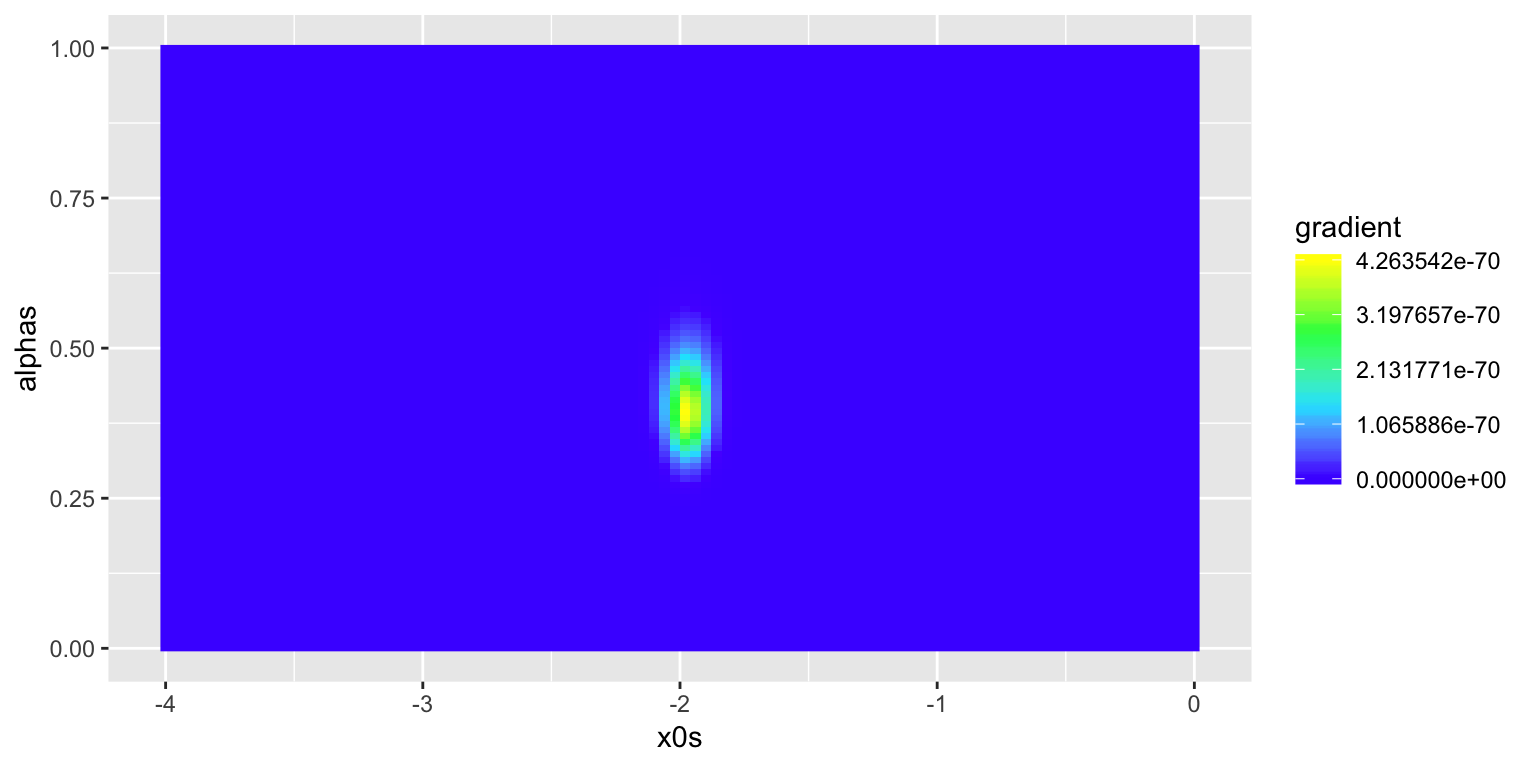
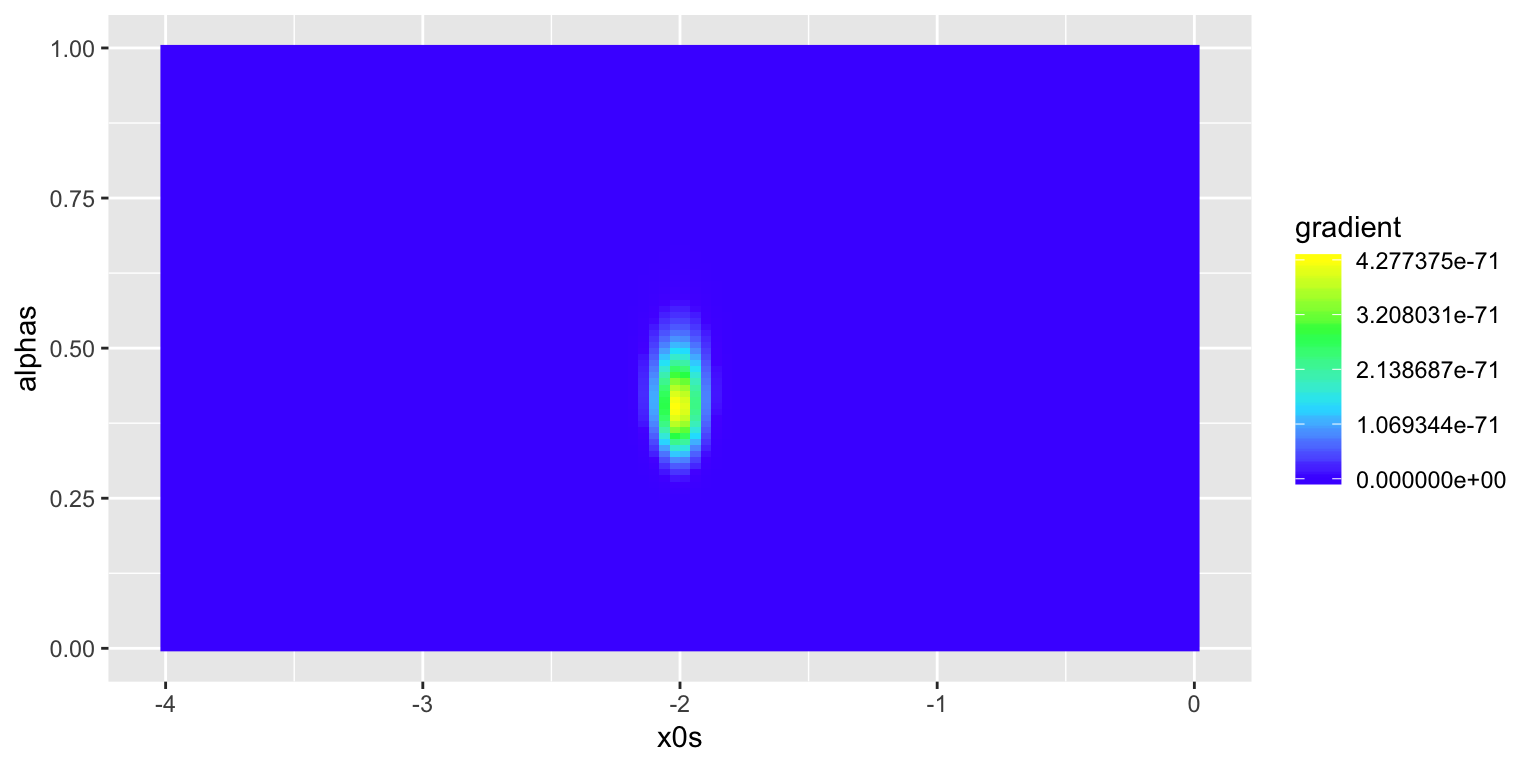
prez

diff --git a/tp4.html b/tp4.html
@@ -410,7 +410,7 @@ for (i in 1:100){
   }
 }
 print(paste(&quot;nombre de rejet du test = &quot;,acc,sep = &quot;&quot;))</code></pre>
-<pre><code>## [1] &quot;nombre de rejet du test = 2&quot;</code></pre>
+<pre><code>## [1] &quot;nombre de rejet du test = 8&quot;</code></pre>
 <p>On remarque que le nombre de rejet varie accès peu et qu’il vaut généralement 4.</p>
 </div>
 <div id="b-1" class="section level3">
@@ -436,9 +436,9 @@ for (i in alpha_list){
     }
     print(paste(&quot;alpha = &quot;,i,&quot; nombre de rejet du test = &quot;,acc,sep = &quot;&quot;))
 }</code></pre>
-<pre><code>## [1] &quot;alpha = 0.2 nombre de rejet du test = 22&quot;
+<pre><code>## [1] &quot;alpha = 0.2 nombre de rejet du test = 18&quot;
 ## [1] &quot;alpha = 0.1 nombre de rejet du test = 10&quot;
-## [1] &quot;alpha = 0.05 nombre de rejet du test = 5&quot;
+## [1] &quot;alpha = 0.05 nombre de rejet du test = 4&quot;
 ## [1] &quot;alpha = 0.01 nombre de rejet du test = 1&quot;</code></pre>
 </div>
 </div>
@@ -454,10 +454,10 @@ for (i in alpha_list){
     }
     print(paste(&quot;alpha = &quot;,i,&quot; nombre de rejet du test = &quot;,acc,sep = &quot;&quot;))
 }</code></pre>
-<pre><code>## [1] &quot;alpha = 0.2 nombre de rejet du test = 76&quot;
-## [1] &quot;alpha = 0.1 nombre de rejet du test = 64&quot;
-## [1] &quot;alpha = 0.05 nombre de rejet du test = 35&quot;
-## [1] &quot;alpha = 0.01 nombre de rejet du test = 18&quot;</code></pre>
+<pre><code>## [1] &quot;alpha = 0.2 nombre de rejet du test = 75&quot;
+## [1] &quot;alpha = 0.1 nombre de rejet du test = 58&quot;
+## [1] &quot;alpha = 0.05 nombre de rejet du test = 52&quot;
+## [1] &quot;alpha = 0.01 nombre de rejet du test = 22&quot;</code></pre>
 <p>On remarque dans un premier que logiquement que rejeté beaucoup plus que précédemment. D’autre part, <span class="math inline">\(\alpha\)</span> influe encore car plus <span class="math inline">\(\alpha\)</span> est grand plus on se trompe sur le testde décision.</p>
 </div>
 <div id="b-2" class="section level3">
@@ -478,14 +478,14 @@ for(i in mu_liste){
     test &lt;- c(test,acc)
     print(paste(&quot;alpha = &quot;,i,&quot; nombre de rejet du test = &quot;,acc,sep = &quot;&quot;))
 }</code></pre>
-<pre><code>## [1] &quot;alpha = 1.2 nombre de rejet du test = 55&quot;
-## [1] &quot;alpha = 1.3 nombre de rejet du test = 47&quot;
-## [1] &quot;alpha = 1.4 nombre de rejet du test = 45&quot;
-## [1] &quot;alpha = 1.5 nombre de rejet du test = 38&quot;
-## [1] &quot;alpha = 1.6 nombre de rejet du test = 38&quot;
-## [1] &quot;alpha = 1.7 nombre de rejet du test = 51&quot;
-## [1] &quot;alpha = 1.8 nombre de rejet du test = 45&quot;
-## [1] &quot;alpha = 1.9 nombre de rejet du test = 46&quot;
+<pre><code>## [1] &quot;alpha = 1.2 nombre de rejet du test = 45&quot;
+## [1] &quot;alpha = 1.3 nombre de rejet du test = 45&quot;
+## [1] &quot;alpha = 1.4 nombre de rejet du test = 52&quot;
+## [1] &quot;alpha = 1.5 nombre de rejet du test = 42&quot;
+## [1] &quot;alpha = 1.6 nombre de rejet du test = 37&quot;
+## [1] &quot;alpha = 1.7 nombre de rejet du test = 52&quot;
+## [1] &quot;alpha = 1.8 nombre de rejet du test = 49&quot;
+## [1] &quot;alpha = 1.9 nombre de rejet du test = 43&quot;
 ## [1] &quot;alpha = 2 nombre de rejet du test = 39&quot;</code></pre>
 <pre class="r"><code>plot(mu_liste,100 - test,xlab = &quot;Valeurs prises par mu1&quot;,ylab = &quot;nombre de rejet obtenu&quot;,main = &quot;Pourcentage de bonne décision&quot;,type = &quot;l&quot;)</code></pre>
 <p><img src="tp4_files/figure-html/unnamed-chunk-6-1.png" width="672" /></p>
@@ -500,13 +500,13 @@ for(i in mu_liste){
 ##  One Sample t-test
 ## 
 ## data:  rnorm(20, 1, sqrt(2))
-## t = 0.53775, df = 19, p-value = 0.597
+## t = 1.226, df = 19, p-value = 0.2352
 ## alternative hypothesis: true mean is not equal to 1
 ## 95 percent confidence interval:
-##  0.3913571 2.0295350
+##  0.7177838 2.0803031
 ## sample estimates:
 ## mean of x 
-##  1.210446</code></pre>
+##  1.399043</code></pre>
 <p><span class="math inline">\(t\)</span> est la valeur correspondant à la statistique donnée par Neyman-Pearson. <span class="math inline">\(df\)</span> est le degré de liberté de la loi de Student.</p>
 </div>
 <div id="b-3" class="section level3">
@@ -523,49 +523,49 @@ for(i in mu_liste){
 ##  One Sample t-test
 ## 
 ## data:  rnorm(20, 1, sqrt(2))
-## t = 0.015383, df = 19, p-value = 0.9879
+## t = -0.010393, df = 19, p-value = 0.9918
 ## alternative hypothesis: true mean is not equal to 1
 ## 80 percent confidence interval:
-##  0.609560 1.399593
+##  0.4512151 1.5402605
 ## sample estimates:
 ## mean of x 
-##  1.004577 
+## 0.9957378 
 ## 
 ## 
 ##  One Sample t-test
 ## 
 ## data:  rnorm(20, 1, sqrt(2))
-## t = -1.2217, df = 19, p-value = 0.2368
+## t = 0.30327, df = 19, p-value = 0.765
 ## alternative hypothesis: true mean is not equal to 1
 ## 90 percent confidence interval:
-##  0.0259445 1.1675204
+##  0.5535873 1.6363125
 ## sample estimates:
 ## mean of x 
-## 0.5967325 
+##   1.09495 
 ## 
 ## 
 ##  One Sample t-test
 ## 
 ## data:  rnorm(20, 1, sqrt(2))
-## t = -0.13482, df = 19, p-value = 0.8942
+## t = 1.369, df = 19, p-value = 0.187
 ## alternative hypothesis: true mean is not equal to 1
 ## 95 percent confidence interval:
-##  0.347396 1.573620
+##  0.7596691 2.1490904
 ## sample estimates:
 ## mean of x 
-## 0.9605082 
+##   1.45438 
 ## 
 ## 
 ##  One Sample t-test
 ## 
 ## data:  rnorm(20, 1, sqrt(2))
-## t = 0.65707, df = 19, p-value = 0.519
+## t = 0.43441, df = 19, p-value = 0.6689
 ## alternative hypothesis: true mean is not equal to 1
 ## 99 percent confidence interval:
-##  0.2186087 2.2473266
+##  0.3004585 1.9500152
 ## sample estimates:
 ## mean of x 
-##  1.232968</code></pre>
+##  1.125237</code></pre>
 </div>
 <div id="d" class="section level3">
 <h3>(d)</h3>

diff --git a/tp3.html b/tp3.html
@@ -372,7 +372,7 @@ $(document).ready(function () {
 <h2>1.a Estimation de p</h2>
 <pre class="r"><code>X_N &lt;- rbinom(n=10,size=1,prob=0.7)
 X_N</code></pre>
-<pre><code>##  [1] 1 0 1 1 1 1 1 0 1 1</code></pre>
+<pre><code>##  [1] 1 1 0 0 0 1 0 1 0 0</code></pre>
 <p>Une estimation rapide de <span class="math inline">\(p\)</span> est de trouver le paramêtre qui maximise la vraisemblance.</p>
 </div>
 <div id="b" class="section level2">
@@ -389,10 +389,10 @@ plot(vect_vraisemblance)</code></pre>
 <pre class="r"><code>interval=c(0,1)
 optimize(function(vect_p) L_bern(X_N,vect_p),interval,lower=min(interval),upper=max(interval),maximum = TRUE)</code></pre>
 <pre><code>## $maximum
-## [1] 0.799982
+## [1] 0.399998
 ## 
 ## $objective
-## [1] 0.006710886</code></pre>
+## [1] 0.001194394</code></pre>
 <p>On trouve finalement une valeur pour <span class="math inline">\(p=0.7\)</span>.</p>
 </div>
 <div id="e" class="section level2">
@@ -412,10 +412,10 @@ for (i in 1:n) {
 plot(N, res,ylab=&quot;&quot;)
 title(main=&quot;Approximation de p en fonction de la taille de l&#39;échantillon&quot;,ylab = &quot;Valeur de p&quot;)
 mean(res) </code></pre>
-<pre><code>## [1] 0.821952</code></pre>
+<pre><code>## [1] 0.8193262</code></pre>
 <p><img src="tp3_files/figure-html/unnamed-chunk-5-1.png" width="50%" /></p>
 <p>On remarque que plus N est grand plus on se rapproche de la valeur attendue avec un meilleur écart. Pour combattre l’instabilité on passe à la log-vraisemblance : <span class="math display">\[\log(L_n(x))=\sum\limits_i \log(f(x_i;p))\]</span></p>
-<pre><code>## [1] 0.7018976</code></pre>
+<pre><code>## [1] 0.7003938</code></pre>
 <p><img src="tp3_files/figure-html/unnamed-chunk-6-1.png" width="50%" /></p>
 <p>On remarque que les points sont de moins en moins dispercé (la figure prend la forme d’un cône) plus on se rapproche d’un n grand.</p>
 </div>
@@ -441,12 +441,11 @@ optimize(function(vect_p) L_bern(data$x,vect_p),interval,lower=min(interval),upp
 <h2>2.a</h2>
 <pre class="r"><code>X_N &lt;- rnorm(n=30,mean=2,sd=1)
 X_N</code></pre>
-<pre><code>##  [1]  3.11137677  1.52993130  1.80088328  2.01816958  1.16166342
-##  [6]  2.31988038  2.88165628  1.68013146  1.62477079  1.71657744
-## [11]  1.71397864  0.98759206  3.18524558  3.57251633 -0.08039467
-## [16]  2.53625661  2.39934931  1.73313600  2.30341220  1.37711818
-## [21]  2.59818480  2.67950275  2.39125725  2.33829999  0.84180386
-## [26]  2.89748826  2.62155741  1.66880693  3.07184618  1.17307257</code></pre>
+<pre><code>##  [1]  1.9939936 -0.3425220  2.2739358  2.5847763  1.7053827  1.0744567
+##  [7]  1.5358342  2.9838698  1.1662237  1.1780105  2.4985431  2.6530751
+## [13]  0.8025991  1.4537363  2.1681741  2.0432473  1.3078019  2.8905969
+## [19]  2.7420681  3.1652165  1.3869109  0.4193042  1.8279638  2.0632320
+## [25]  1.2210212  1.5299707  1.4175924  3.1964891  2.0462393  2.1557095</code></pre>
 </div>
 <div id="b-1" class="section level2">
 <h2>2.b</h2>
@@ -461,10 +460,10 @@ plot(vect_vraisemblance)</code></pre>
 <pre class="r"><code>interval=c(0,4)
 optimize(function(vect_p) L_norm(X_N,vect_p,2),interval,lower=min(interval),upper=max(interval),maximum = TRUE)</code></pre>
 <pre><code>## $maximum
-## [1] 2.061844
+## [1] 1.838109
 ## 
 ## $objective
-## [1] 9.041266e-23</code></pre>
+## [1] 8.381337e-23</code></pre>
 <p>On trouve alors une valeur pour</p>
 </div>
 <div id="d" class="section level2">
@@ -487,7 +486,7 @@ for (i in 1:n) {
 plot(N, dmu,ylab=&quot;&quot;)
 title(main=&quot;Approximation de mu en fonction de la taille de l&#39;échantillon&quot;,ylab = &quot;Valeur de mu&quot;)
 mean(dmu)</code></pre>
-<pre><code>## [1] 3.524977</code></pre>
+<pre><code>## [1] 3.506394</code></pre>
 <p><img src="tp3_files/figure-html/unnamed-chunk-11-1.png" width="50%" /></p>
 <p>On remarque que comme dans le cas de l’exercice 1, il faut passer à la log-vraisemblance.</p>
 <pre class="r"><code>library(knitr)
@@ -508,7 +507,7 @@ for (i in 1:n) {
 plot(N, dmu,xlab=&quot;&quot;)
 title(main=&quot;Approximation de mu en fonction de la taille de l&#39;échantillon&quot;,ylab = &quot;Valeur de mu&quot;)
 mean(dmu)</code></pre>
-<pre><code>## [1] 2.003602</code></pre>
+<pre><code>## [1] 1.995559</code></pre>
 <p><img src="tp3_files/figure-html/unnamed-chunk-12-1.png" width="33%" /></p>
 <p>On remarque encore une fois l’apparition d’un cône pour n de plus en plus grand et une convergence du paramètre <span class="math inline">\(\mu\)</span> vers <span class="math inline">\(2\)</span> la valeur théorique.</p>
 </div>
@@ -581,7 +580,7 @@ c(&quot;x0&quot; = x0, &quot;alpha_max&quot; = alpha)</code></pre>
 <pre class="r"><code># valeurs des paramètres pour lesquels la vraisemblance est maximal:
 c(&quot;x0_max&quot; = x0s[m], &quot;alpha_max&quot; = alphas[m])</code></pre>
 <pre><code>##     x0_max  alpha_max 
-## -1.9797980  0.3939394</code></pre>
+## -2.0202020  0.4040404</code></pre>
 </div>
 
 

diff --git a/tp2.html b/tp2.html
@@ -442,7 +442,7 @@ moy_norm_hist &lt;- function(law,title){
   }
 }
 mean(gen_echan_gauss(100,1000,1,2))</code></pre>
-<pre><code>## [1] 2.493762</code></pre>
+<pre><code>## [1] 2.345591</code></pre>
 <pre class="r"><code>#moy_empirique(gen_echan_gauss(10000,10000,1,2))
 moy_norm &lt;- function(n,N,mu,sigma){
   Xn &lt;- gen_echan_gauss(n,N,mu,sigma)[1,]
@@ -466,19 +466,8 @@ moy_norm &lt;- function(n,N,mu,sigma){
 <h3>1.2 Loi de Pareto</h3>
 <p>Soit <span class="math inline">\(X\)</span> une variable aléatoire suivant une loi de Pareto <span class="math inline">\(\mathcal{P}(a, \alpha)\)</span>,où <span class="math inline">\(\alpha &gt; 2\)</span>. Alors, <span class="math inline">\(\mathbb{E}[X]=\frac{\alpha \times a}{\alpha - 1}\)</span> et <span class="math inline">\(\mathbb{V}[X]=(\frac{\alpha \times a}{\alpha - 1})^2\frac{\alpha}{\alpha - 2}\)</span> On cherche encore une fois à appliquer le théorème centrale limite afin de mettre en avant que la loi de pareto peut-être approchée par un loi normale centrée réduite : On a déja une expression de l’espérance : <span class="math inline">\(\mathbb{E}[X_{i}]=\frac{\alpha\times a}{\alpha - 1}=a_{n}\)</span> Pour l’expression de <span class="math inline">\(b_n\)</span>, on a : <span class="math display">\[b_{n}=\frac{\sigma}{\sqrt{n}}=\frac{\sqrt{\mathbb{V}[X_{i}]}}{\sqrt{n}}=\frac{\frac{\alpha\times a}{\alpha - 1}\frac{(\alpha)^{1/2}}{(\alpha - 2)^{1/2}}}{\sqrt{n}} \]</span></p>
 <p>Plus n est grand, plus la loi moyenne empirique renormalisé semble suivre une loi N(0, 1).</p>
-<pre class="r"><code>library(&quot;rmutil&quot;)</code></pre>
-<pre><code>## 
-## Attaching package: &#39;rmutil&#39;</code></pre>
-<pre><code>## The following object is masked from &#39;package:tidyr&#39;:
-## 
-##     nesting</code></pre>
-<pre><code>## The following object is masked from &#39;package:stats&#39;:
-## 
-##     nobs</code></pre>
-<pre><code>## The following objects are masked from &#39;package:base&#39;:
-## 
-##     as.data.frame, units</code></pre>
-<pre class="r"><code>gen_echan_pareto &lt;- function(n,N,a,alpha){
+<pre class="r"><code>library(&quot;rmutil&quot;)
+gen_echan_pareto &lt;- function(n,N,a,alpha){
     x &lt;- rpareto(n,a,alpha)
     aleatoire &lt;- function(x1,n1){
       y &lt;- sample(x1,n1,replace=TRUE)

diff --git a/projectstat.html b/projectstat.html
@@ -375,22 +375,9 @@ $(document).ready(function () {
 <pre class="r"><code>knitr::opts_chunk$set(echo=TRUE,message=FALSE,warning=FALSE)
 library(ggplot2)
 library(magrittr)
-library(dplyr)</code></pre>
-<pre><code>## 
-## Attaching package: &#39;dplyr&#39;</code></pre>
-<pre><code>## The following objects are masked from &#39;package:stats&#39;:
-## 
-##     filter, lag</code></pre>
-<pre><code>## The following objects are masked from &#39;package:base&#39;:
-## 
-##     intersect, setdiff, setequal, union</code></pre>
-<pre class="r"><code>library(tidyr)</code></pre>
-<pre><code>## 
-## Attaching package: &#39;tidyr&#39;</code></pre>
-<pre><code>## The following object is masked from &#39;package:magrittr&#39;:
-## 
-##     extract</code></pre>
-<pre class="r"><code>data &lt;- read.csv(&quot;Data_Binomial_16.csv&quot;)
+library(dplyr)
+library(tidyr)
+data &lt;- read.csv(&quot;Data_Binomial_16.csv&quot;)
 summary(data)</code></pre>
 <pre><code>##       cost             victory            sex             age      
 ##  Min.   :  0.0781   Min.   : 29.26   Min.   :0.000   Min.   :0.00  

diff --git a/datascIIEnce.html b/datascIIEnce.html
@@ -11,7 +11,7 @@
 
 
 
-<title>datascIIEnce</title>
+<title>datascIIEnce.utf8.md</title>
 
 <script src="site_libs/jquery-1.11.3/jquery.min.js"></script>
 <meta name="viewport" content="width=device-width, initial-scale=1" />
@@ -358,7 +358,6 @@ $(document).ready(function () {
 
 
 
-<h1 class="title toc-ignore">datascIIEnce</h1>
 
 </div>
 
